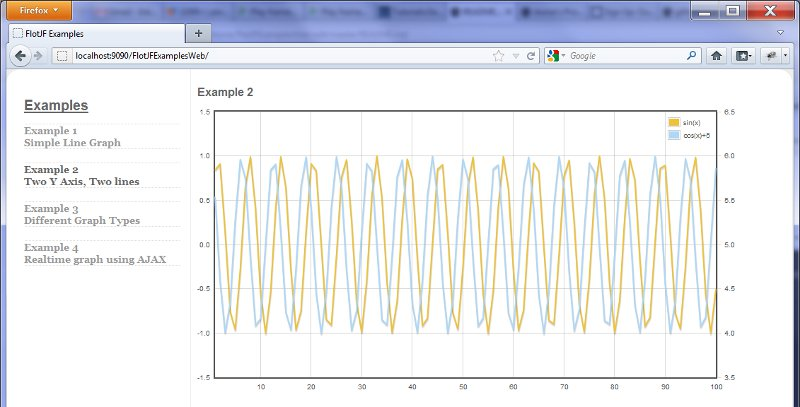
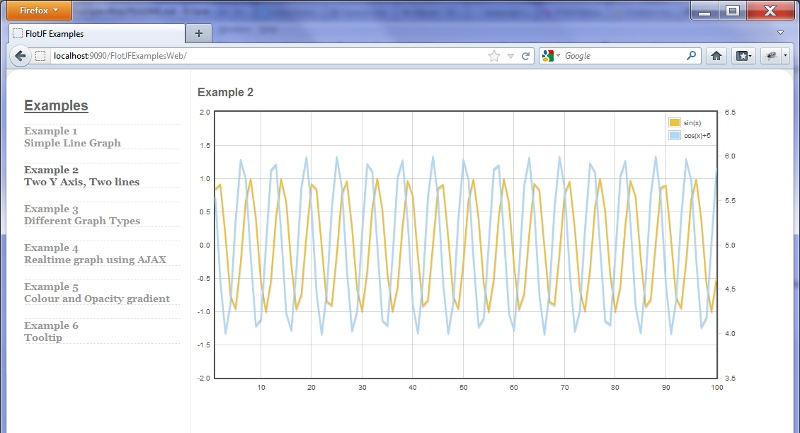
Added two examples. Minor fixes due to updates in FlotJF.

diff --git a/WebContent/javascripts/flotjf.tooltip.js b/WebContent/javascripts/flotjf.tooltip.js
@@ -1,0 +1,38 @@
+function showTooltip(x, y, contents) {
+	$('<div id="tooltip">' + contents + '</div>').css({
+		position : 'absolute',
+		display : 'none',
+		top : y + 5,
+		left : x + 5,
+		border : '1px solid #fdd',
+		padding : '2px',
+		'background-color' : '#fee',
+		opacity : 0.80
+	}).appendTo("body").fadeIn(200);
+}
+
+var previousPoint = null;
+function useTooltip() {
+	$("#placeholder").bind(
+			"plothover",
+			function(event, pos, item) {
+				$("#x").text(pos.x.toFixed(2));
+				$("#y").text(pos.y.toFixed(2));
+	
+				if (item) {
+					if (previousPoint != item.dataIndex) {
+						previousPoint = item.dataIndex;
+	
+						$("#tooltip").remove();
+						var x = item.datapoint[0].toFixed(2), y = item.datapoint[1]
+								.toFixed(2);
+	
+						showTooltip(item.pageX, item.pageY, item.series.label
+								+ " of " + x + " = " + y);
+					}
+				} else {
+					$("#tooltip").remove();
+					previousPoint = null;
+				}
+		});
+}

diff --git a/WebContent/index.html b/WebContent/index.html
@@ -13,6 +13,8 @@
 <A href="example.jsp?id=2" target="exampleIFrame">Example 2<br>Two Y Axis, Two lines</A><br />
 <A href="example.jsp?id=3" target="exampleIFrame">Example 3<br>Different Graph Types</A><br />
 <A href="example.jsp?id=4&poll=true" target="exampleIFrame">Example 4<br>Realtime graph using AJAX</A><br />
+<A href="example.jsp?id=5" target="exampleIFrame">Example 5<br>Colour and Opacity gradient</A><br />
+<A href="example.jsp?id=6&tooltip=true" target="exampleIFrame">Example 6<br>Tooltip</A><br />
 </div>
 <div id="content">
 <iframe name="exampleIFrame" width="800" height="600" style="border: 0px"></iframe>

diff --git a/src/main/java/ExampleGraph6.java b/src/main/java/ExampleGraph6.java
@@ -1,21 +1,21 @@
 import flotjf.Chart;
 import flotjf.data.PlotData;
 import flotjf.options.Axis;
+import flotjf.options.Grid;
 
 
-public class ExampleGraph2 {
+public class ExampleGraph6 {
 
 	public static String getGraphOptions() {
 		Chart chart = new Chart();
-	
-		Axis yAxis = new Axis();
-		yAxis.setMax(2D);
-		yAxis.setMin(-2D);
-		chart.addYAxis(yAxis);
 
-		Axis yAxisRight = new Axis();
-		yAxisRight.setPosition("right");
-		chart.addYAxis(yAxisRight);
+		// Enable interaction with grid. (In this case for tooltip)
+		Grid grid = new Grid();
+		grid.setHoverable(true);
+		chart.addGrid(grid);
+
+		Axis yAxis = new Axis();
+		chart.addYAxis(yAxis);
 
 		Axis xAxis = new Axis();
 		chart.addXAxis(xAxis);
@@ -24,18 +24,23 @@ public class ExampleGraph2 {
 	}
 	
 	public static String getGraph() {
-		PlotData sinPlot = new PlotData("sin(x)", null);
+		PlotData sqrtPlot = new PlotData("sqrt(x)", null);
+		PlotData sinPlot = new PlotData("sin(x)*2", null);
 		PlotData cosPlot = new PlotData("cos(x)+5", null);
-		// TODO
-		cosPlot.setRightYAxis();
+
+		// Flot use Line as default type. To change the type, just call the helper method use<Type>.
+		sinPlot.setBarOptions();
+		cosPlot.setPointOptions();
 
 		int i = 0;
 		while( i++ < 100 ) {
-			sinPlot.addPoint(i, Math.sin(i));
+			sqrtPlot.addPoint(i, Math.sqrt(i));
+			sinPlot.addPoint(i, Math.sin(i)*2);
 			cosPlot.addPoint(i, Math.cos(i)+5);
 		}
 	
 		Chart chart = new Chart();
+		chart.addElements(sqrtPlot);
 		chart.addElements(sinPlot);
 		chart.addElements(cosPlot);
 

diff --git a/src/main/java/ExampleGraph5.java b/src/main/java/ExampleGraph5.java
@@ -1,0 +1,44 @@
+import flotjf.Chart;
+import flotjf.data.PlotData;
+import flotjf.options.Axis;
+import flotjf.options.graphseries.Colors;
+import flotjf.options.graphseries.color.Gradient;
+
+
+public class ExampleGraph5 {
+
+	public static String getGraphOptions() {
+		Chart chart = new Chart();
+	
+		Axis yAxis = new Axis();
+		chart.addYAxis(yAxis);
+
+		Axis xAxis = new Axis();
+		chart.addXAxis(xAxis);
+
+		return chart.printChartOptions();
+	}
+	
+	public static String getGraph() {
+		PlotData sqrtPlot = new PlotData("sqrt(x)", null);
+
+		// Flot use Line as default type. To change the type, just call the helper method use<Type>.
+		sqrtPlot.setBarOptions();
+		sqrtPlot.getBars().setBarWidth(0.8);
+		sqrtPlot.getBars().setLineWidth(0);
+		Colors colors = new Colors("#afefef", "#ff5522","#afefef");
+		colors.setColors(new Gradient(0.8,null), new Gradient(0.1, null));
+		sqrtPlot.getBars().setFillColor(colors);
+
+		int i = 0;
+		while( i++ < 10 ) {
+			sqrtPlot.addPoint(i, Math.sqrt(i));
+		}
+	
+		Chart chart = new Chart();
+		chart.addElements(sqrtPlot);
+
+		return chart.printChart();
+	}
+
+}

diff --git a/src/main/java/GetGraphOptions.java b/src/main/java/GetGraphOptions.java
@@ -40,6 +40,12 @@ public class GetGraphOptions extends HttpServlet {
 		case 4:
 			out.println(ExampleGraph4.getGraphOptions());
 			break;
+		case 5:
+			out.println(ExampleGraph5.getGraphOptions());
+			break;
+		case 6:
+			out.println(ExampleGraph6.getGraphOptions());
+			break;
 		}
 
 		out.close();

diff --git a/src/main/java/GetGraph.java b/src/main/java/GetGraph.java
@@ -40,6 +40,12 @@ public class GetGraph extends HttpServlet {
 		case 4:
 			out.println(ExampleGraph4.getGraph());
 			break;
+		case 5:
+			out.println(ExampleGraph5.getGraph());
+			break;
+		case 6:
+			out.println(ExampleGraph6.getGraph());
+			break;
 		}
 		
 		out.close();

diff --git a/src/main/java/ExampleGraph4.java b/src/main/java/ExampleGraph4.java
@@ -13,7 +13,7 @@ public class ExampleGraph4 {
 		Chart chart = new Chart();
 	
 		Axis yAxis = new Axis();
-		yAxis.setMax(550L);
+		yAxis.setMax(550D);
 		chart.addYAxis(yAxis);
 
 		Axis xAxis = new Axis();
